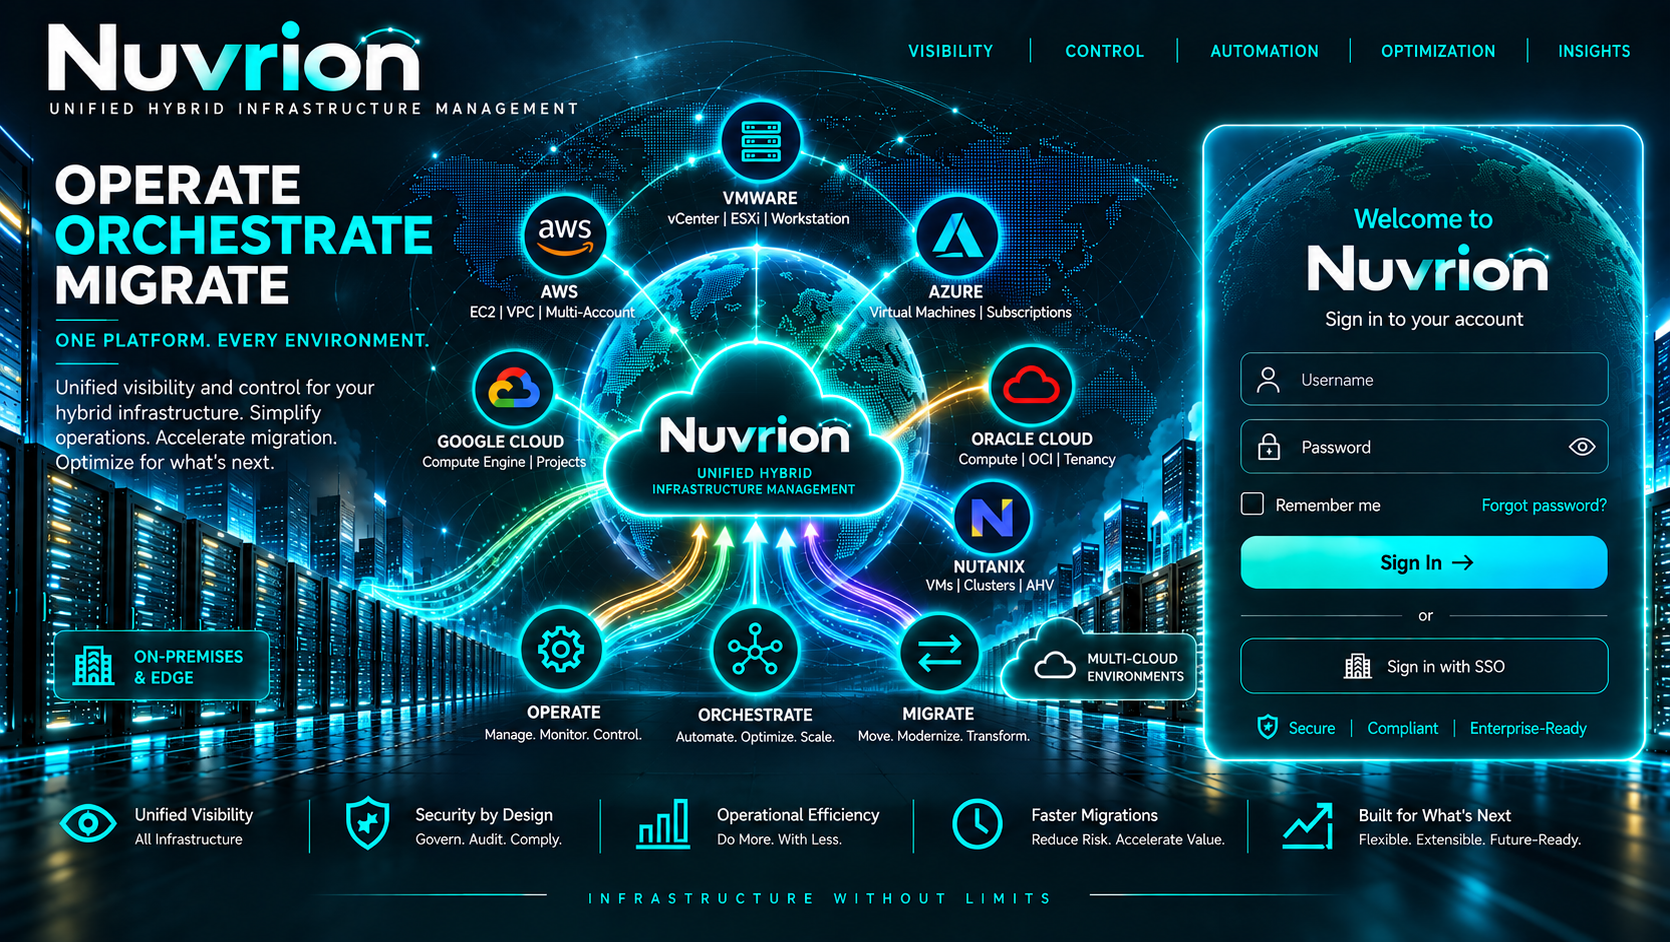
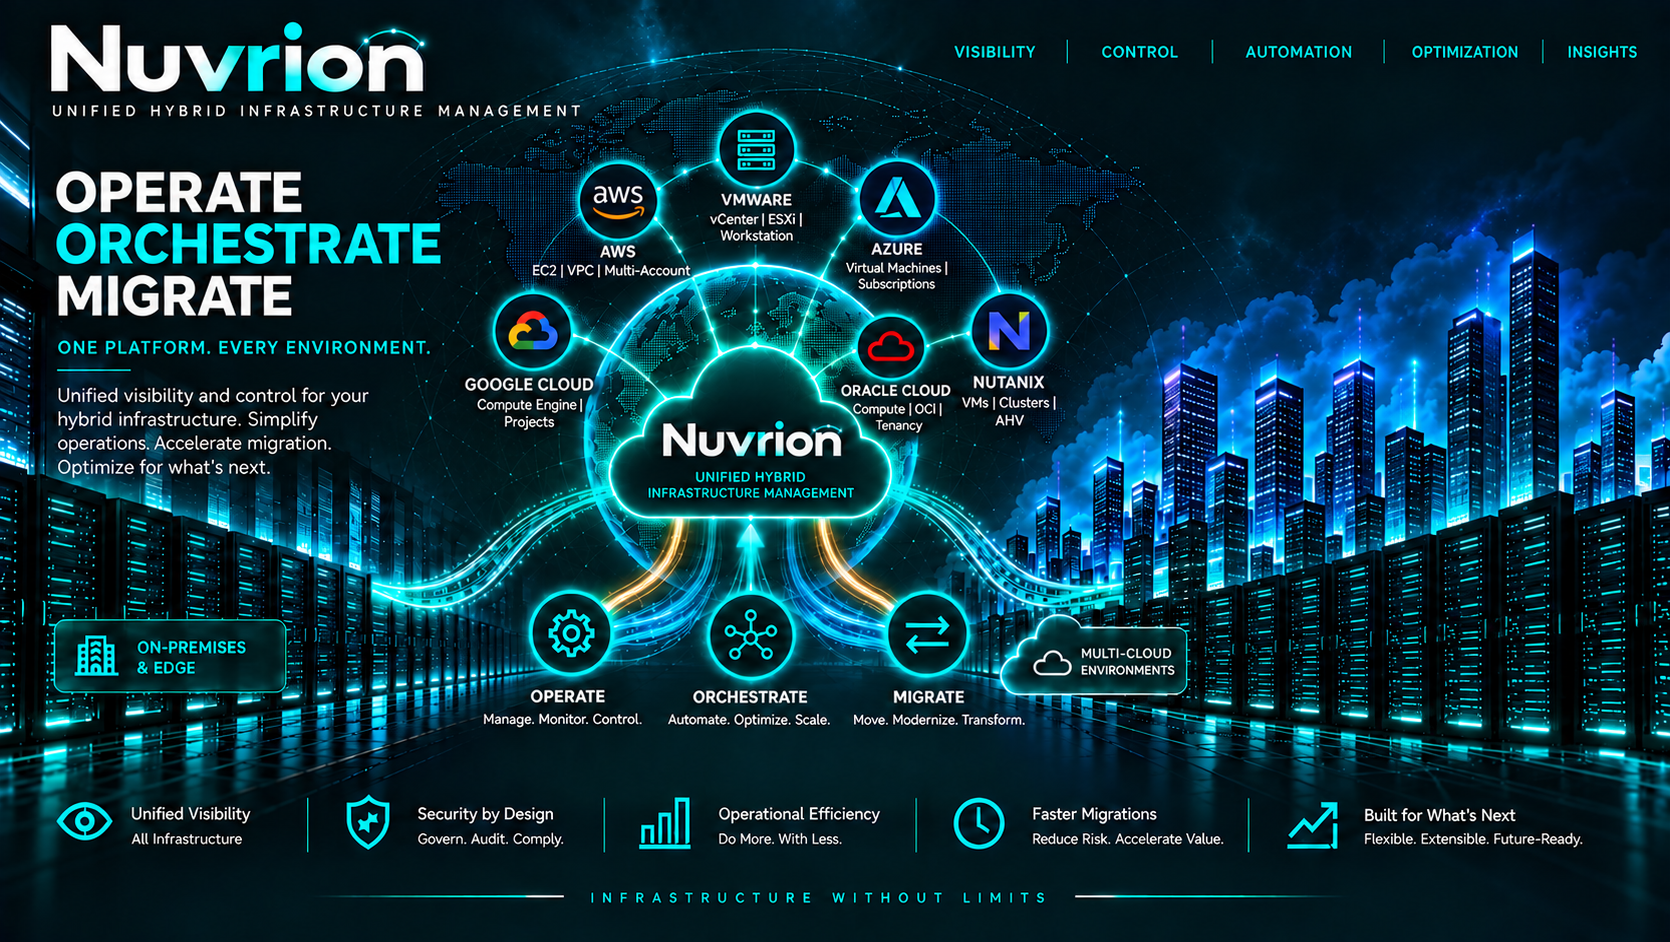
Nuvrion v0.1.101
- Uses the newly supplied Nuvrion infrastructure artwork, without baked-in form controls, as the full-page login background.
- Positions the previously approved, real Nuvrion sign-in card over the artwork's open right-hand area.
- Preserves local authentication, account creation, password reset, password visibility, disabled SSO, and secure browser password-manager integration.
- Adds responsive fallback positioning so the functional login card remains readable on narrower screens.
- Serves the approved background as a versioned Nuvrion application asset with a restrictive same-origin content policy.
- Requires no Workstation Agent upgrade or database migration; Agent v0.1.46 and migration 0028 remain current.
- Passes all 330 automated tests.

Reconstructed from the archived release overlay on the RHEL9 lab VM (~/nuvrion-upgrades/releases/Nuvrion-v0.1.101/); this application source was never tracked in git until this reconstruction. Commit date reflects the overlay tarball's build timestamp.

diff --git a/apps/web/index.html b/apps/web/index.html
@@ -20,4 +20,4 @@
 <dialog id="media-dialog" class="media-dialog"><form id="media-form"><header><div><p class="eyebrow">VM CD/DVD MEDIA</p><h2 id="media-title">Select disc image</h2></div><button id="media-close" type="button">Close</button></header><p id="media-summary" class="session-policy">Loading media controls…</p><div id="media-current" class="media-current" aria-live="polite">Checking mounted media…</div><div id="media-progress" class="media-progress" role="status" hidden><span class="media-spinner" aria-hidden="true"></span><strong id="media-progress-text"></strong></div><label>CD/DVD drive<select id="media-drive" required></select></label><label>Select ISO image<span class="media-source-row"><input id="media-selection" readonly placeholder="No ISO selected"><input id="media-image" type="hidden"><button id="media-browse" type="button">Browse ISO</button></span></label><section id="media-browser" class="media-browser" hidden><div class="media-browser-head"><button id="media-browser-back" type="button" disabled>Back</button><p id="media-browser-status" class="media-browser-status"></p></div><div id="media-browser-list" class="media-browser-list"></div></section><p id="media-warning" class="form-error" role="alert"></p><div class="media-actions"><button id="media-eject" type="button" class="danger">Eject media</button><span></span><button id="media-cancel" type="button">Cancel</button><button id="media-mount" type="submit" class="primary">Mount image</button></div></form></dialog>
 <dialog id="snapshot-dialog" class="snapshot-dialog"><form id="snapshot-form"><header><div><p class="eyebrow">VM RECOVERY POINTS</p><h2 id="snapshot-title">Snapshots</h2></div><button id="snapshot-close" type="button">Close</button></header><div class="snapshot-overview"><p id="snapshot-summary" class="session-policy">Loading snapshots…</p><span id="snapshot-consolidation" class="snapshot-health">Checking consolidation…</span></div><div id="snapshot-progress" class="media-progress" role="status" hidden><span class="media-spinner" aria-hidden="true"></span><strong id="snapshot-progress-text"></strong></div><section class="snapshot-create"><h3>Create snapshot</h3><label>Name<input id="snapshot-name" maxlength="80" required placeholder="Before maintenance"></label><label>Description<textarea id="snapshot-description" maxlength="512" rows="2" placeholder="Optional recovery-point notes"></textarea></label><div class="snapshot-options"><label><input id="snapshot-memory" type="checkbox"> Include VM memory</label><label><input id="snapshot-quiesce" type="checkbox"> Quiesce guest file system</label></div><p class="snapshot-help">Memory and quiesced snapshots are mutually exclusive. Both are off by default.</p><button id="snapshot-create" type="submit" class="primary">Create snapshot</button></section><section class="snapshot-inventory"><div class="snapshot-section-head"><h3>Snapshot history</h3><button id="snapshot-refresh" type="button">Refresh</button></div><div class="snapshot-retention"><div><strong>Retention review</strong><small>Highlight safe leaf snapshots for deletion. Nothing is removed automatically.</small></div><label>Keep newest<select id="snapshot-retain-count"><option value="0">All</option><option value="3">3</option><option value="5">5</option><option value="10">10</option></select></label><label>Maximum age<select id="snapshot-retain-days"><option value="0">Any age</option><option value="7">7 days</option><option value="14">14 days</option><option value="30">30 days</option><option value="90">90 days</option></select></label><button id="snapshot-retention-apply" type="button" class="danger" disabled>No eligible snapshots</button></div><p id="snapshot-error" class="form-error" role="alert"></p><div id="snapshot-list" class="snapshot-list"></div></section></form></dialog>
 <dialog id="vm-settings-dialog" class="vm-settings-dialog"><form id="vm-settings-form"><header><div><p class="eyebrow">VM CONFIGURATION</p><h2 id="vm-settings-title">Edit settings</h2></div><button id="vm-settings-close" type="button">Close</button></header><p id="vm-settings-summary" class="session-policy">Loading VMware settings…</p><div id="vm-settings-progress" class="media-progress" role="status" hidden><span class="media-spinner" aria-hidden="true"></span><strong>Applying and verifying settings…</strong></div><div class="vm-settings-tabs" role="tablist"><button type="button" class="active" data-settings-tab="hardware">Virtual hardware</button><button type="button" data-settings-tab="options">VM options</button></div><section id="vm-settings-hardware" class="vm-settings-panel"><div class="vm-settings-addbar"><button type="button" data-settings-add="disk">▰ Add hard disk</button><button type="button" data-settings-add="network">↔ Add network adapter</button><button type="button" data-settings-add="device">▣ Add other device</button></div><details class="vm-settings-device" open><summary><span>▣</span><strong>CPU</strong><em id="settings-cpu-summary"></em></summary><div class="settings-detail-grid"><label>vCPUs<input id="settings-cpu" type="number" min="1" max="768" required></label><label>Cores per socket<input id="settings-cores" type="number" min="1" max="768" required></label><label>Sockets<input id="settings-sockets" readonly></label><label class="settings-check"><input id="settings-cpu-hotadd" type="checkbox"> Enable CPU Hot Add</label><label>Reservation (MHz)<input id="settings-cpu-reservation" type="number" min="0"></label><label>Limit (MHz; -1 unlimited)<input id="settings-cpu-limit" type="number" min="-1"></label><label>Shares<select id="settings-cpu-shares-level"><option value="low">Low</option><option value="normal">Normal</option><option value="high">High</option><option value="custom">Custom</option></select></label><label>Custom shares<input id="settings-cpu-shares" type="number" min="0"></label><label class="settings-check settings-wide"><input id="settings-nested-hv" type="checkbox"> Expose hardware-assisted virtualization to the guest OS</label><label class="settings-check"><input id="settings-iommu" type="checkbox"> Expose IOMMU to the guest OS</label><label class="settings-check"><input id="settings-vpmc" type="checkbox"> Enable virtualized CPU performance counters</label><label class="settings-wide">Scheduling affinity<input id="settings-cpu-affinity" placeholder="Logical CPUs, e.g. 0,2,4-7"></label></div></details><details class="vm-settings-device"><summary><span>▤</span><strong>Memory</strong><em id="settings-memory-summary"></em></summary><div class="settings-detail-grid"><label>RAM (GB)<input id="settings-memory" type="number" min="0.004" max="24576" step="0.25" required></label><label>Reservation (MB)<input id="settings-memory-reservation" type="number" min="0"></label><label>Limit (MB; -1 unlimited)<input id="settings-memory-limit" type="number" min="-1"></label><label>Shares<select id="settings-memory-shares-level"><option value="low">Low</option><option value="normal">Normal</option><option value="high">High</option><option value="custom">Custom</option></select></label><label>Custom shares<input id="settings-memory-shares" type="number" min="0"></label><label class="settings-check"><input id="settings-memory-locked" type="checkbox"> Reserve all guest memory</label><label class="settings-check"><input id="settings-memory-hotadd" type="checkbox"> Enable Memory Hot Plug</label></div></details><div id="settings-disks"></div><div id="settings-controllers"></div><div id="settings-networks"></div><div id="settings-cdroms"></div><div id="settings-videos"></div></section><section id="vm-settings-options" class="vm-settings-panel" hidden><div class="vm-settings-grid"><label>Virtual machine name<input id="settings-name" maxlength="80" required></label><label>Guest operating system<input id="settings-guest" readonly></label><label>Firmware<select id="settings-firmware"><option value="bios">BIOS</option><option value="efi">UEFI</option></select></label><label>Boot delay (milliseconds)<input id="settings-boot-delay" type="number" min="0" max="600000" step="100"></label><label class="settings-check"><input id="settings-secure-boot" type="checkbox"> Enable UEFI Secure Boot</label><label class="settings-check"><input id="settings-enter-bios" type="checkbox"> Enter firmware setup on next boot</label><label class="settings-check"><input id="settings-sync-time" type="checkbox"> Synchronize guest time with host</label><label class="settings-wide">VM notes<textarea id="settings-annotation" maxlength="1024" rows="3"></textarea></label></div></section><p id="vm-settings-error" class="form-error" role="alert"></p><footer class="vm-settings-actions"><button id="vm-settings-cancel" type="button">Cancel</button><button id="vm-settings-save" type="submit" class="primary">Save changes</button></footer></form></dialog>
-<script type="module" src="/app.js?v=20260913-100"></script><script type="module" src="/login-polish.js?v=20260913-100"></script><script type="module" src="/upgrade-center.js?v=20260911"></script></body></html>
+<script type="module" src="/app.js?v=20260913-101"></script><script type="module" src="/login-polish.js?v=20260913-101"></script><script type="module" src="/upgrade-center.js?v=20260911"></script></body></html>

diff --git a/apps/web/app.js b/apps/web/app.js
@@ -1,5 +1,5 @@
 const $=id=>document.getElementById(id);const esc=v=>String(v??'—').replace(/[&<>'"]/g,c=>({'&':'&amp;','<':'&lt;','>':'&gt;',"'":'&#39;','"':'&quot;'}[c]));
-document.head.insertAdjacentHTML('beforeend','<link rel="stylesheet" href="/styles.css?v=20260913-100"><link rel="stylesheet" href="/vm-workspace.css?v=20260913-100">');
+document.head.insertAdjacentHTML('beforeend','<link rel="stylesheet" href="/styles.css?v=20260913-101"><link rel="stylesheet" href="/vm-workspace.css?v=20260913-101">');
 function separateVmFilterCard(){const head=document.querySelector('#view-inventory .vm-workspace-head'),filter=head?.querySelector('.vm-filter-toolbar');if(!head||!filter||filter.closest('.vm-filter-card'))return;const input=filter.querySelector('#inventory-search');if(input){input.placeholder='Search VM inventory';input.setAttribute('aria-label','Search all virtual machine fields')}const card=document.createElement('div');card.className='vm-filter-card';card.setAttribute('aria-label','Virtual machine search and filters');head.before(card);card.append(filter)}
 separateVmFilterCard();
 const state={csrf:'',user:null,health:null,resources:[],performanceLatest:{},connections:[],alerts:[],tasks:[],audit:[],auditTotal:0,auditOffset:0,auditLimit:100,auditQuery:'',auditLoading:false,auditSearchTimer:null,monitorLimit:100,monitorOffsets:{performance:0,alerts:0,tasks:0},users:[],selectedResourceId:null,selectedResourceSource:null,bulkSelection:new Set(),monitorTab:'performance',pending:null,mediaResourceId:null,media:null,mediaBrowse:null,mediaBusy:false,mediaOverrides:new Map(),refreshing:false,loading:false,vmStateLoading:false,sessionPolicy:{idleTimeoutMs:30*60_000,absoluteTimeoutMs:8*60*60_000},lastActivityAt:Date.now(),sessionWarningShown:false};const titles={overview:'Platform Overview',inventory:'Virtual Machines',connections:'Provider Connections',monitor:'Monitor',alerts:'Connection Alerts',tasks:'Task Activity',audit:'Audit History',users:'User Administration',health:'Platform Health'};

diff --git a/apps/web/styles.css b/apps/web/styles.css
@@ -775,7 +775,7 @@ nav button:hover .nav-icon svg,nav button.active .nav-icon svg{stroke:#e9fffb;fi
 @media(max-width:940px){.login-view.login-reference{grid-template-columns:1fr;grid-template-rows:auto auto auto auto;overflow:auto}.login-masthead nav{display:none}.login-command-center{grid-column:1;grid-template-columns:minmax(220px,.7fr) minmax(390px,1.3fr)}.login-reference .login-card{grid-column:1;justify-self:center;width:min(520px,100%);max-height:none}.login-benefits{grid-template-columns:repeat(3,1fr)}.login-benefits>div{min-height:48px}.login-benefits>div:nth-child(3){border-right:0}}
 @media(max-width:680px){.login-view.login-reference{padding:17px 15px 24px}.login-masthead{justify-content:center}.login-masthead .login-brand strong{font-size:21px}.login-command-center{display:block}.login-pitch{max-width:none;text-align:center}.login-pitch>p:last-of-type{margin-inline:auto}.login-pitch h1{font-size:34px}.login-edge-cards{grid-template-columns:1fr 1fr}.login-edge-cards>div{width:100%;text-align:left}.login-network{display:none}.login-reference .login-card{padding:25px 20px}.login-benefits{grid-template-columns:1fr 1fr}.login-benefits>div{justify-content:flex-start;border-bottom:1px solid rgba(47,226,224,.18)}.login-benefits>div:nth-child(odd){border-right:1px solid rgba(47,226,224,.42)}.login-benefits>div:nth-child(even){border-right:0}}
 
-/* v0.1.100 approved image-backed login page. */
+/* v0.1.101 approved image-backed login page with functional overlay. */
 .login-view.login-reference.login-image-background{
   display:grid!important;
   grid-template-columns:minmax(0,1fr) clamp(370px,26.5vw,455px)!important;
